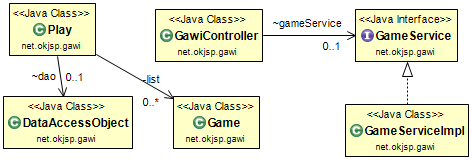
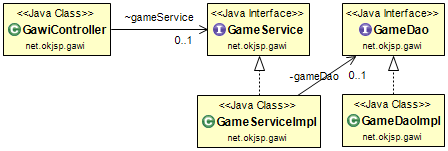
GameDAO

diff --git a/spring/okspring/src/main/java/net/okjsp/gawi/GameDaoImpl.java b/spring/okspring/src/main/java/net/okjsp/gawi/GameDaoImpl.java
@@ -1,0 +1,43 @@
+package net.okjsp.gawi;
+
+import java.io.IOException;
+import java.io.InputStream;
+import java.util.Date;
+
+import org.apache.ibatis.io.Resources;
+import org.apache.ibatis.session.SqlSession;
+import org.apache.ibatis.session.SqlSessionFactory;
+import org.apache.ibatis.session.SqlSessionFactoryBuilder;
+import org.springframework.stereotype.Repository;
+
+@Repository
+public class GameDaoImpl implements GameDao {
+	private static SqlSessionFactory sqlSessionFactory;
+	static {
+		String resource = "net/okjsp/gawi/mybatis-config.xml";
+		InputStream inputStream;
+		try {
+			inputStream = Resources.getResourceAsStream(resource);
+			sqlSessionFactory = new SqlSessionFactoryBuilder()
+					.build(inputStream);
+		} catch (IOException e) {
+			e.printStackTrace();
+		}
+	}
+
+	@Override
+	public int save(int choice, int computerChoice, String judgement) {
+		Date datetime = new Date();
+		Game game = new Game(choice, computerChoice, judgement, datetime);
+		SqlSession session = sqlSessionFactory.openSession();
+		try {
+			GameMapper mapper = session.getMapper(GameMapper.class);
+			mapper.insertGame(game);
+		} finally {
+			session.commit();
+			session.close();
+		}
+		return 0;
+	}
+
+}

diff --git a/spring/okspring/src/main/java/net/okjsp/gawi/GameServiceImpl.java b/spring/okspring/src/main/java/net/okjsp/gawi/GameServiceImpl.java
@@ -1,15 +1,18 @@
 package net.okjsp.gawi;
 
+import org.springframework.beans.factory.annotation.Autowired;
 import org.springframework.stereotype.Service;
 
 @Service
 public class GameServiceImpl implements GameService {
+	@Autowired
+	private GameDao gameDao;
 
 	public Play play(Game game) {
 		Play play = new Play();
 		game.setComputerChoice(play.getComputerChoice());
 		game.setJudgement(play.judge(game.getChoice(), game.getComputerChoice()));
-		play.save(game.getChoice(), game.getComputerChoice(),
+		gameDao.save(game.getChoice(), game.getComputerChoice(),
 				game.getJudgement());
 		return play;
 	}

diff --git a/spring/okspring/src/main/java/net/okjsp/gawi/GameDao.java b/spring/okspring/src/main/java/net/okjsp/gawi/GameDao.java
@@ -1,0 +1,7 @@
+package net.okjsp.gawi;
+
+public interface GameDao {
+
+	int save(int choice, int computerChoice, String judgement);
+
+}
